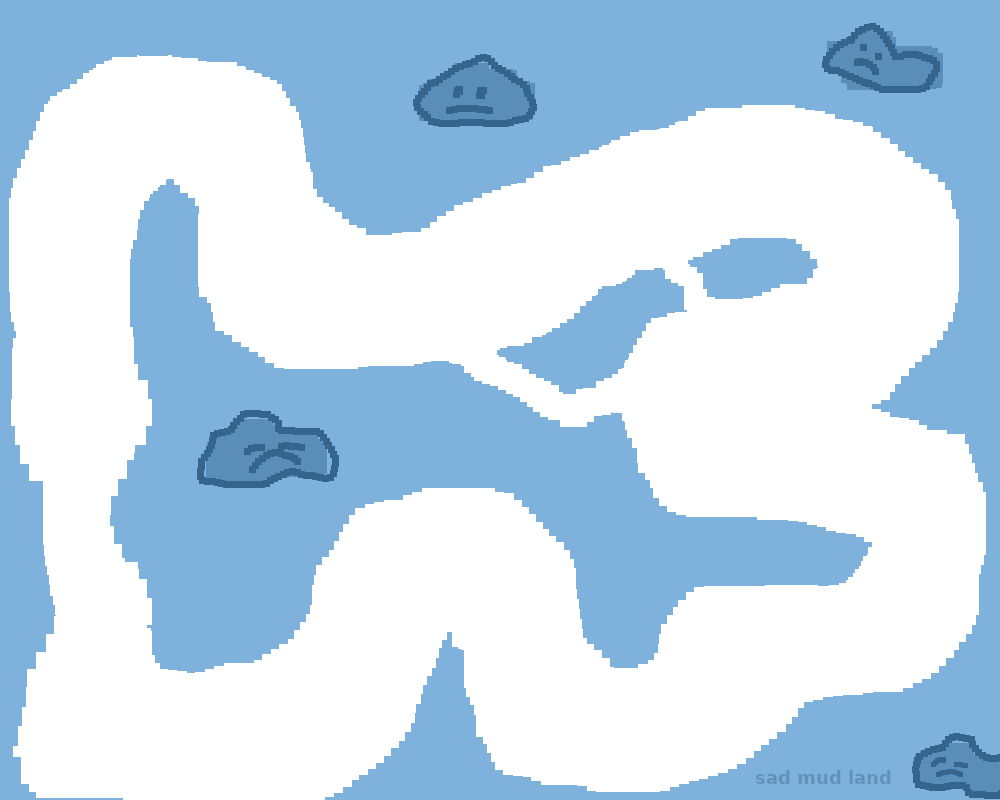
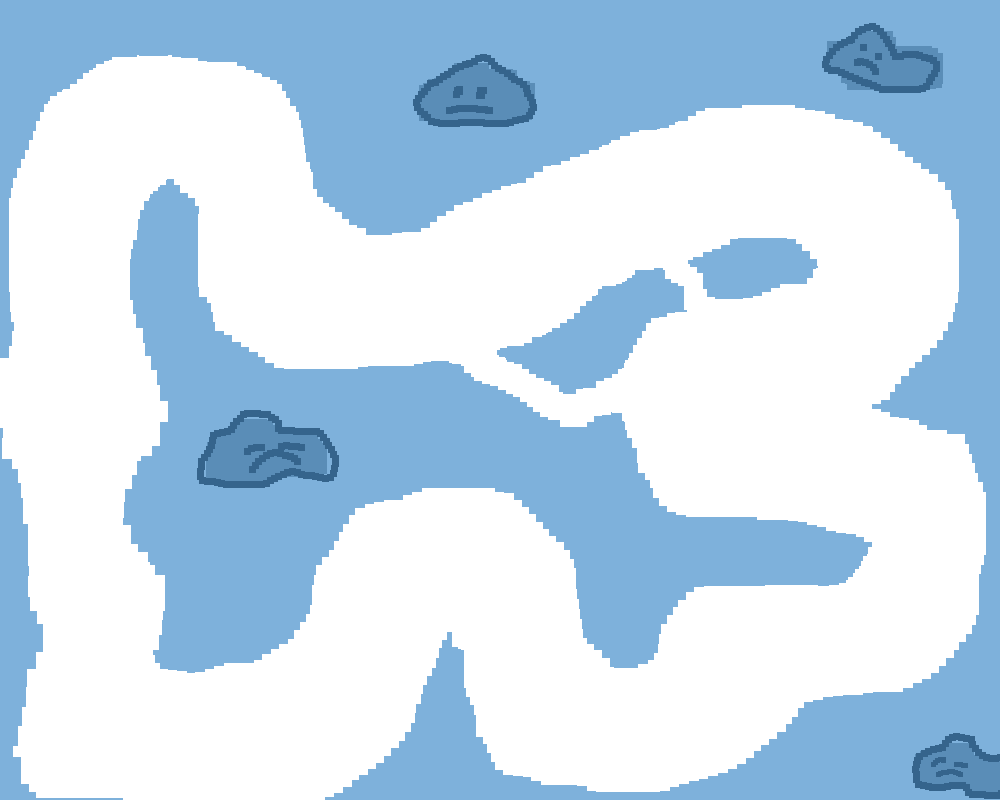
Fix falling loop and instant race finish bug

Changed region(s): [[0.093, 0.375, 0.186, 0.8125], [0.0, 0.4375, 0.062, 0.8125], [0.744, 0.9688, 0.899, 1.0]]

diff --git a/Racing.java b/Racing.java
@@ -941,7 +941,7 @@ public class Racing {
 
 	private static JButton startButton, quitButton;
 
-	private static Point cp1 = new Point(75, 480);
+	private static Point cp1 = new Point(75, 420);
 	private static Point cp2 = new Point(258, 233);
 	private static Point cp3 = new Point(693, 423);
 	private static Point cp4 = new Point(540, 708);
